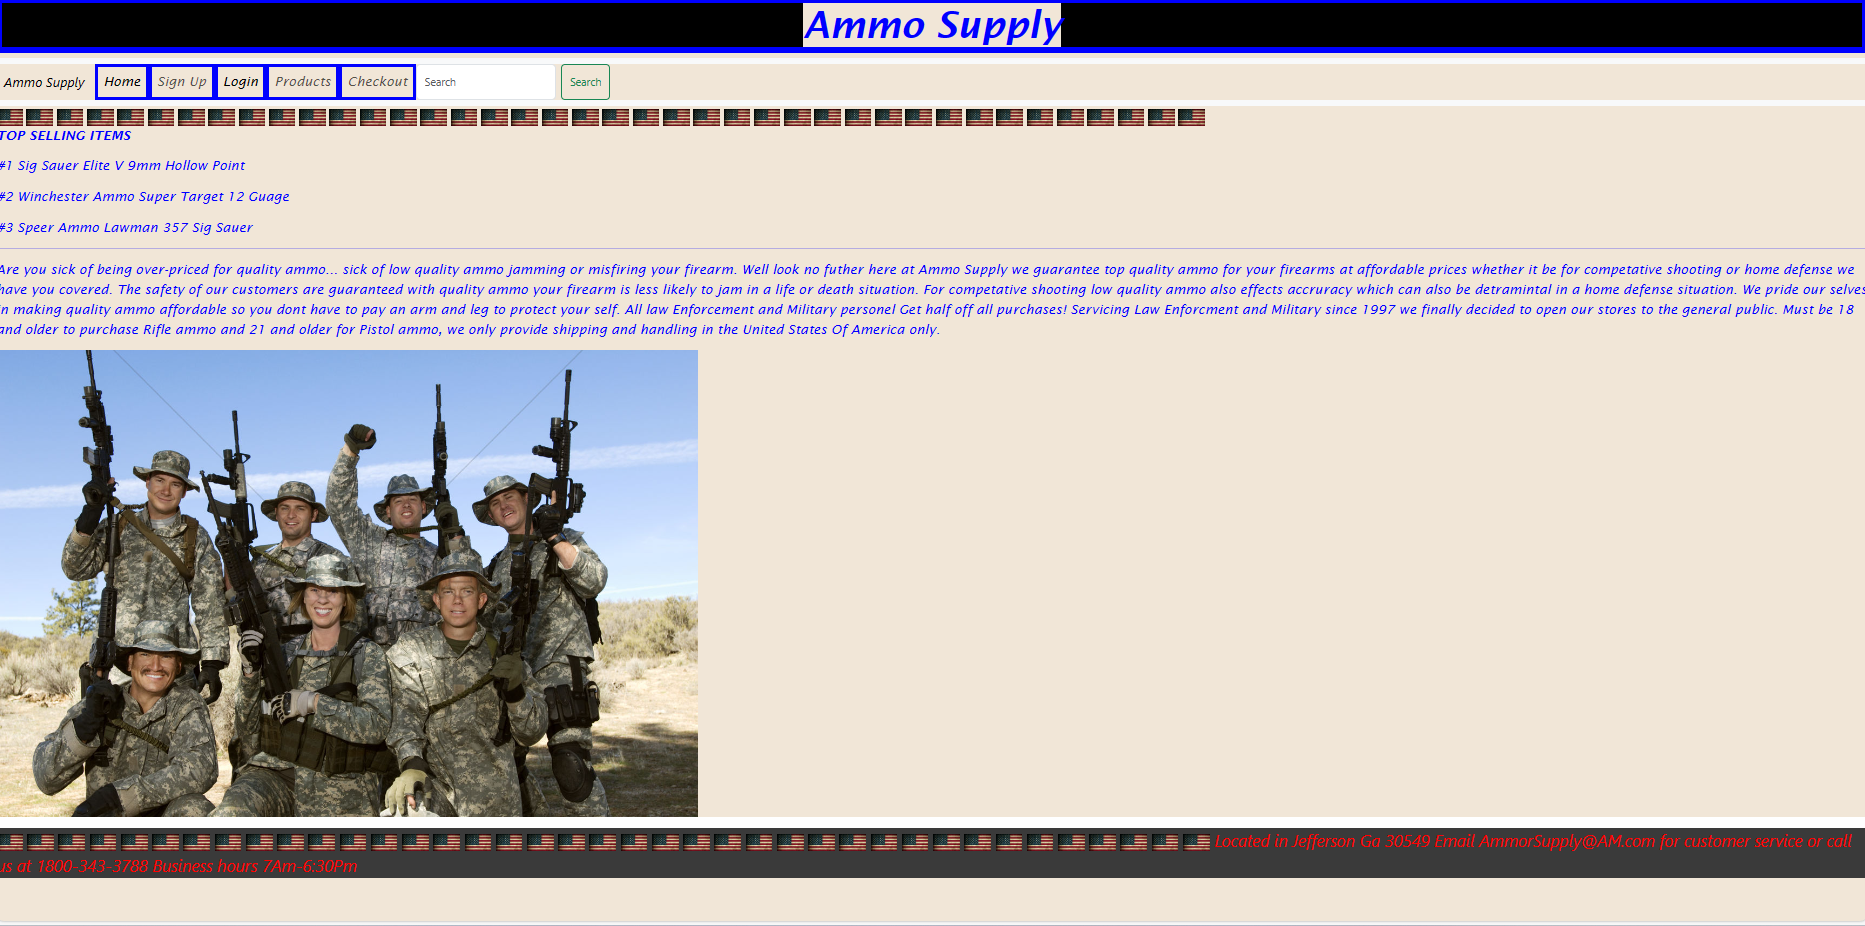
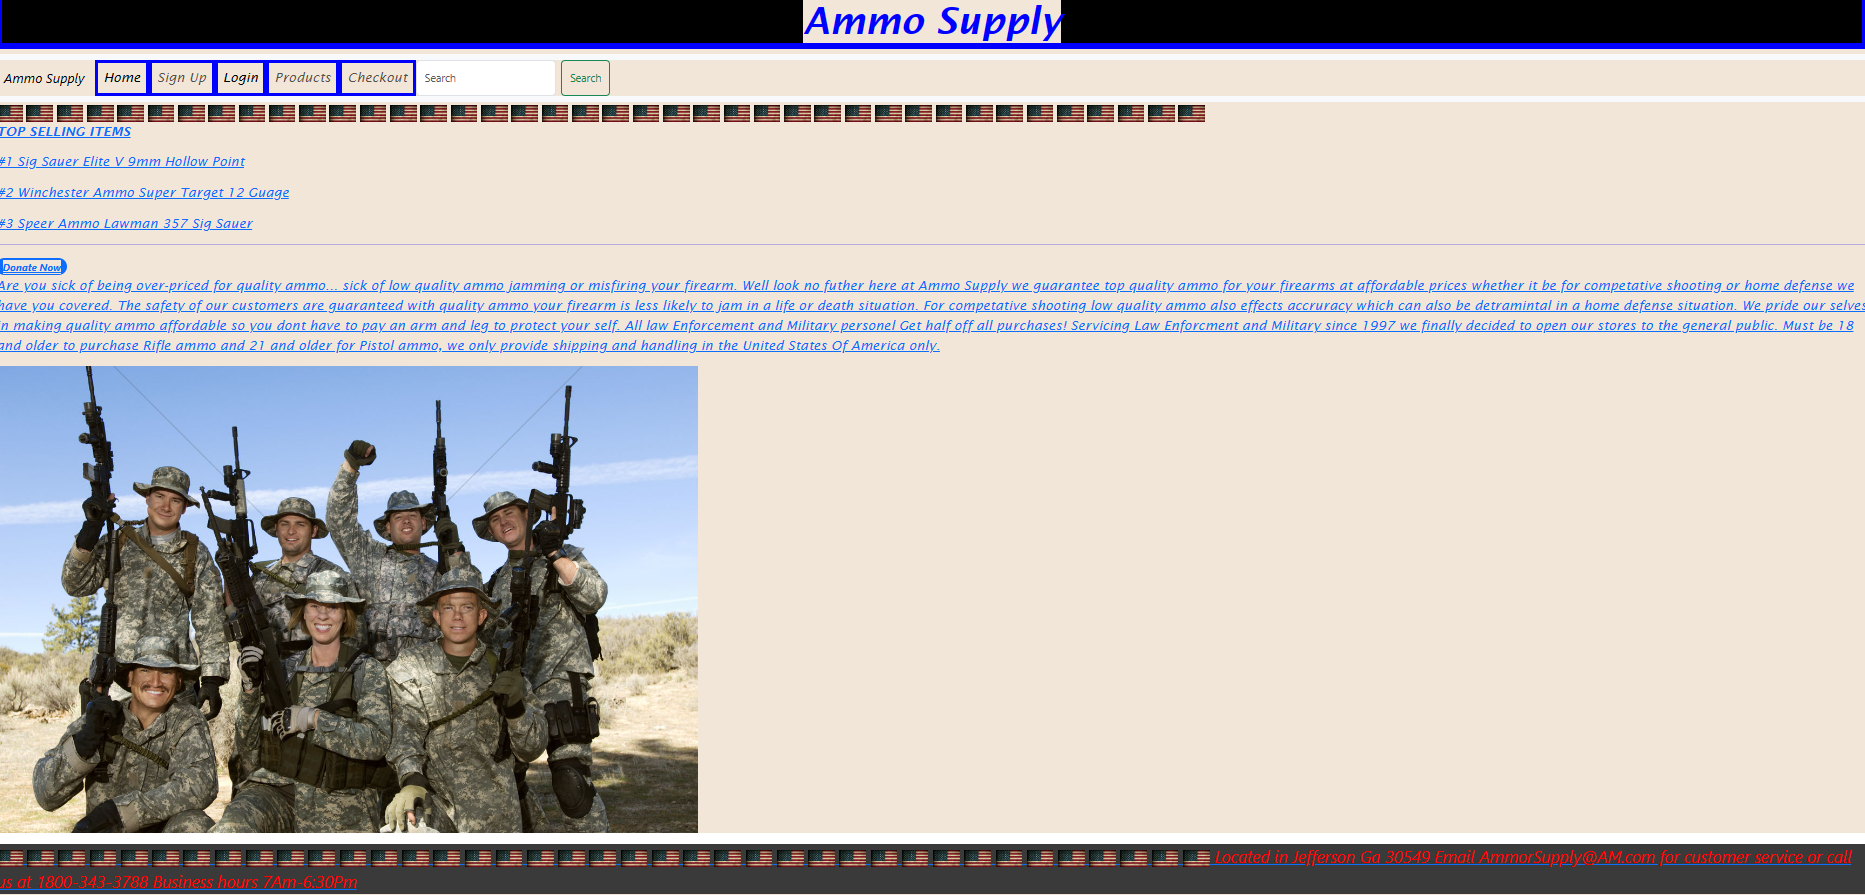
Project skelenton

Changed region(s): [[0.0, 0.0, 1.0, 1.0]]

diff --git a/index.html b/index.html
@@ -68,7 +68,7 @@
                             </form>
             </nav>
 
-
+                
 
 
     </header>
@@ -114,7 +114,7 @@
         <img src="https://wallpapercave.com/wp/UmbAAfZ.jpg " alt="width= " 50 height="25">
         <img src="https://wallpapercave.com/wp/UmbAAfZ.jpg " alt="width= " 50 height="25">
 
-<Div>
+
   
     <p><a href=""> <strong>TOP SELLING ITEMS</strong></a> </p>
         <p> <a href="">#1 Sig Sauer Elite V 9mm Hollow Point</a></p>
@@ -122,8 +122,13 @@
         <p><a href="">#3 Speer Ammo Lawman 357 Sig Sauer</a> </p>
     </span>
         <hr>
-    </Div>
-        <p> Are you sick of being over-priced for quality ammo... sick of low quality ammo jamming or misfiring your
+    
+       
+    <div>
+    
+        <span class="badge bg-primary rounded-pill"><a href="">Donate Now</a></span><a href="">
+</div>
+    <p> Are you sick of being over-priced for quality ammo... sick of low quality ammo jamming or misfiring your
             firearm.
             Well look no futher here at Ammo Supply we guarantee top quality ammo for your firearms at affordable prices
             whether it be for competative shooting or home defense we have you covered.

diff --git a/README.md b/README.md
@@ -2,11 +2,72 @@
 E-commerce-capstone for YearUp LearnToCode Fall 2023
 This website is for education purposes only and for helping me understand html.The product pictures and item descriptions were not made by me but used for educational purpose of structuring a  sample website.
 Pictures,products and item descriptions from https://www.classicfirearms.com/
-Used bootstrap for base structure of nav/ search bar, login, check out, product cards, & registration had to adjust some things and add other elements that were not present like the radio buttons for how did you hear about us and quantities in cart along with many more minor details.
-Bootstrap was a huge help and helped me understand html alot better because even though it gave format I had to take things and combine them in places boot strap did not have in the html
-manipulated photo size creating multiple copies for American flag footer on each page 
 <img src="/images/checkoutpage.png">
-<img src="/images/signupPage.png">
 <img src="/images/homepage.png">
 <img src="/images/loginpage.png">
 <img src="/images/productspage.png">
+<img src="/images/signupPage.png">
+
+
+Used bootstrap for base structure of nav/ search bar, login, check out, product cards, & registration had to adjust some things and add other elements that were not present like the radio buttons for how did you hear about us and quantities in cart along with many more minor details.
+     <div class="mb-3 form-check">
+        <input type="checkbox" class="form-check-input" id="exampleCheck1">
+        <label class="form-check-label" for="exampleCheck1"> Yes I Would Like Receive Promotional Emails/Texts By
+          Clicking Subscribe ' I Accept <a href="">Privacy Policy</a> </label>
+      </div>
+      <button type="submit" class="btn btn-primary"> Create Account</button>
+    </form>
+
+    <p><strong>How did you hear about us?</strong></p>
+    <div class="form-check">
+      <input class="form-check-input" type="checkbox" value="" id="flexCheckDefault">
+      <label class="form-check-label" for="flexCheckDefault">
+        Flyer
+      </label>
+    </div>
+    <div class="form-check">
+      <input class="form-check-input" type="checkbox" value="" id="flexCheckChecked">
+      <label class="form-check-label" for="flexCheckChecked">
+        Google
+      </label>
+    </div>
+    <div class="form-check">
+      <input class="form-check-input" type="checkbox" value="" id="flexCheckChecked">
+      <label class="form-check-label" for="flexCheckChecked">
+        Youtube Ads
+      </label>
+    </div>
+    <div class="form-check">
+      <input class="form-check-input" type="checkbox" value="" id="flexCheckChecked">
+      <label class="form-check-label" for="flexCheckChecked">
+        Social Media
+      </label>
+      <div class="col-md-4">
+        <label for="social media" class="form-label"></label>
+        <select class="form-select" id="social media" optional="">
+          <option value="">Select </option>
+          <option>Twitter</option>
+          <option>Instagram</option>
+          <option>Facebook</option>
+          <option>Snapchat</option>
+        </select>
+        <div class="invalid-feedback">
+          Select social media.
+        </div>
+      </div>
+    </div>
+
+    <div class="form-check">
+      <input class="form-check-input" type="checkbox" value="" id="flexCheckDefault">
+      <label class="form-check-label" for="flexCheckDefault">
+        Other
+      </label>
+      <div class="mb-3">
+        <label for="exampleInputOther" class="form-label"></label>
+        <input type="Other" class="form-control" id="exampleInputOther">
+      </div>
+    </div>
+
+Bootstrap was a huge help and helped me understand html alot better because even though it gave format I had to take things and combine them in places boot strap did not have in the html or remove unwanted elements 
+manipulated photo size creating multiple copies for American flag footer on each page.
+
